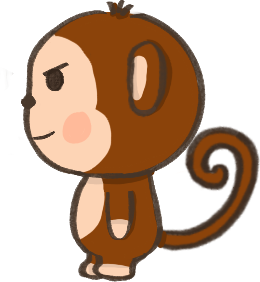
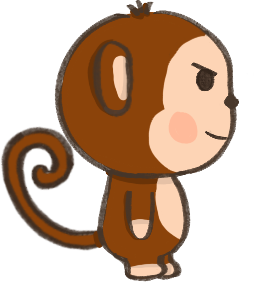
memory game

diff --git a/src/Memory.cpp b/src/Memory.cpp
@@ -66,17 +66,17 @@ void Memory::GenerateNewRound() {
         random_moves[j] = moves[randIndex];
 
         if (random_moves[j] == "up") {
-            correct_p1[j] = 'w';
-            correct_p2[j] = KEY_UP;
+            correct_p2[j] = 'w';
+            correct_p1[j] = KEY_UP;
         } else if (random_moves[j] == "down") {
-            correct_p1[j] = 's';
-            correct_p2[j] = KEY_DOWN;
+            correct_p2[j] = 's';
+            correct_p1[j] = KEY_DOWN;
         } else if (random_moves[j] == "left") {
-            correct_p1[j] = 'a';
-            correct_p2[j] = KEY_LEFT;
+            correct_p2[j] = 'a';
+            correct_p1[j] = KEY_LEFT;
         } else if (random_moves[j] == "right") {
-            correct_p1[j] = 'd';
-            correct_p2[j] = KEY_RIGHT;
+            correct_p2[j] = 'd';
+            correct_p1[j] = KEY_RIGHT;
         }
     }
     
@@ -162,33 +162,33 @@ void Memory::Update() {
             }
         } else if (players_can_type) {
             // โค้ดในการจัดการการกรอกข้อมูลของผู้เล่นเหมือนเดิม
-            if (player1_inputs.size() < 5 && (IsKeyPressed(KEY_W) || IsKeyPressed(KEY_A) || IsKeyPressed(KEY_S) || IsKeyPressed(KEY_D))) {
+            if (player2_inputs.size() < 5 && (IsKeyPressed(KEY_W) || IsKeyPressed(KEY_A) || IsKeyPressed(KEY_S) || IsKeyPressed(KEY_D))) {
                 char input = 0;
                 if (IsKeyPressed(KEY_W)) input = 'w';
                 else if (IsKeyPressed(KEY_A)) input = 'a';
                 else if (IsKeyPressed(KEY_S)) input = 's';
                 else if (IsKeyPressed(KEY_D)) input = 'd';
 
-                int index = player1_inputs.size();
+                int index = player2_inputs.size();
                 if (index < 5) {
-                    player1_inputs.push_back(input);
-                    display_p1[index] = (input == correct_p1[index]) ? 1 : -1;
-                    if (input == correct_p1[index]) correct_count_p1++;
+                    player2_inputs.push_back(input);
+                    display_p2[index] = (input == correct_p2[index]) ? 1 : -1;
+                    if (input == correct_p2[index]) correct_count_p2++;
                 }
             }
 
-            if (player2_inputs.size() < 5 && (IsKeyPressed(KEY_UP) || IsKeyPressed(KEY_LEFT) || IsKeyPressed(KEY_DOWN) || IsKeyPressed(KEY_RIGHT))) {
+            if (player1_inputs.size() < 5 && (IsKeyPressed(KEY_UP) || IsKeyPressed(KEY_LEFT) || IsKeyPressed(KEY_DOWN) || IsKeyPressed(KEY_RIGHT))) {
                 int input = 0;
                 if (IsKeyPressed(KEY_UP)) input = KEY_UP;
                 else if (IsKeyPressed(KEY_LEFT)) input = KEY_LEFT;
                 else if (IsKeyPressed(KEY_DOWN)) input = KEY_DOWN;
                 else if (IsKeyPressed(KEY_RIGHT)) input = KEY_RIGHT;
 
-                int index = player2_inputs.size();
+                int index = player1_inputs.size();
                 if (index < 5) {
-                    player2_inputs.push_back(input);
-                    display_p2[index] = (input == correct_p2[index]) ? 1 : -1;
-                    if (input == correct_p2[index]) correct_count_p2++;
+                    player1_inputs.push_back(input);
+                    display_p1[index] = (input == correct_p1[index]) ? 1 : -1;
+                    if (input == correct_p1[index]) correct_count_p1++;
                 }
             }
 
@@ -239,16 +239,16 @@ void Memory::Draw() {
             return;
         }
 
-        DrawTexture(player1Image, 100, 500 - jump, WHITE);
-        DrawTexture(player2Image, 800, 500 - jump, WHITE);
+        DrawTexture(player1Image, 800, 500 - jump, WHITE);
+        DrawTexture(player2Image, 100, 500 - jump, WHITE);
 
         DrawText(TextFormat("Round: %d", round), 480, 160, 50, BLACK);
 
-        DrawTextureEx(img10, (Vector2){150, 30}, 0.0f, 0.5f, WHITE);
-        DrawTextureEx(img11, (Vector2){870, 30}, 0.0f, 0.5f, WHITE);
+        DrawTextureEx(img10, (Vector2){870, 30}, 0.0f, 0.5f, WHITE);
+        DrawTextureEx(img11, (Vector2){150, 30}, 0.0f, 0.5f, WHITE);
 
-        DrawText(TextFormat("%d", player1_score), 210, 200, 30, BLUE);
-        DrawText(TextFormat("%d", player2_score), 930, 200, 30, RED);
+        DrawText(TextFormat("%d", player1_score), 930, 200, 30, BLUE);
+        DrawText(TextFormat("%d", player2_score), 210, 200, 30, RED);
 
         if (showing_target && current_index < 5) {
             if (timer <= 1.0f) {  // แสดงภาพ 1.5 วินาที
@@ -269,10 +269,10 @@ void Memory::Draw() {
             DrawText(TextFormat("%d", countdown), screenWidth / 2 - 25, screenHeight / 2 + 85, 60, BLACK);
         }
         for (int i = 0; i < 5; i++) {
-            DrawTexture((display_p1[i] == 0) ? img3 : (display_p1[i] == 1) ? img4 : img5, 100 + (i * 60), 400, WHITE);
+            DrawTexture((display_p1[i] == 0) ? img3 : (display_p1[i] == 1) ? img4 : img5, 800 + (i * 60), 400, WHITE);
         }
         for (int i = 0; i < 5; i++) {
-            DrawTexture((display_p2[i] == 0) ? img3 : (display_p2[i] == 1) ? img4 : img5, 800 + (i * 60), 400, WHITE);
+            DrawTexture((display_p2[i] == 0) ? img3 : (display_p2[i] == 1) ? img4 : img5, 100 + (i * 60), 400, WHITE);
         }
     }
     EndDrawing();

diff --git a/src/paint.cpp b/src/paint.cpp
@@ -242,16 +242,16 @@ void playpaint() {
     
             const char* scoreP2 = TextFormat("%d", player1.score);
             const char* scoreP1 = TextFormat("%d", player2.score);
-            if (player2.score > player1.score) {
+            if (player1.score > player2.score) {
                 DrawTexture(p1w, 0, 0, WHITE);
                 style.centerX("Player 1 win", 100, 110, DARKBROWN);
-                DrawText(scoreP1,385,620,50,DARKBROWN);
-                DrawText(scoreP2,760,620,50,DARKBROWN);
-            } else if (player1.score > player2.score) {
+                DrawText(scoreP1,760,620,50,DARKBROWN);
+                DrawText(scoreP2,385,620,50,DARKBROWN);
+            } else if (player2.score > player1.score) {
                 DrawTexture(p2w, 0, 0, WHITE);
                 style.centerX("Player 2 win", 100, 110, DARKBROWN);
-                DrawText(scoreP1,385,620,50,DARKBROWN);
-                DrawText(scoreP2,760,620,50,DARKBROWN);
+                DrawText(scoreP1,760,620,50,DARKBROWN);
+                DrawText(scoreP2,385,620,50,DARKBROWN);
             } else if (player2.score == player1.score) {
                 DrawTexture(draw, 0, 0, WHITE);
                 style.centerX("Draw", 150, 110, DARKBROWN);

diff --git a/src/Memory.h b/src/Memory.h
@@ -32,11 +32,11 @@ private:
     int round;
     int player1_score, player2_score;
     std::vector<std::string> random_moves;
-    std::vector<char> correct_p1;
-    std::vector<int> correct_p2;
+    std::vector<int> correct_p1;
+    std::vector<char> correct_p2;
 
-    std::vector<char> player1_inputs;
-    std::vector<int> player2_inputs;
+    std::vector<int> player1_inputs;
+    std::vector<char> player2_inputs;
 
     std::vector<int> display_p1;
     std::vector<int> display_p2;
